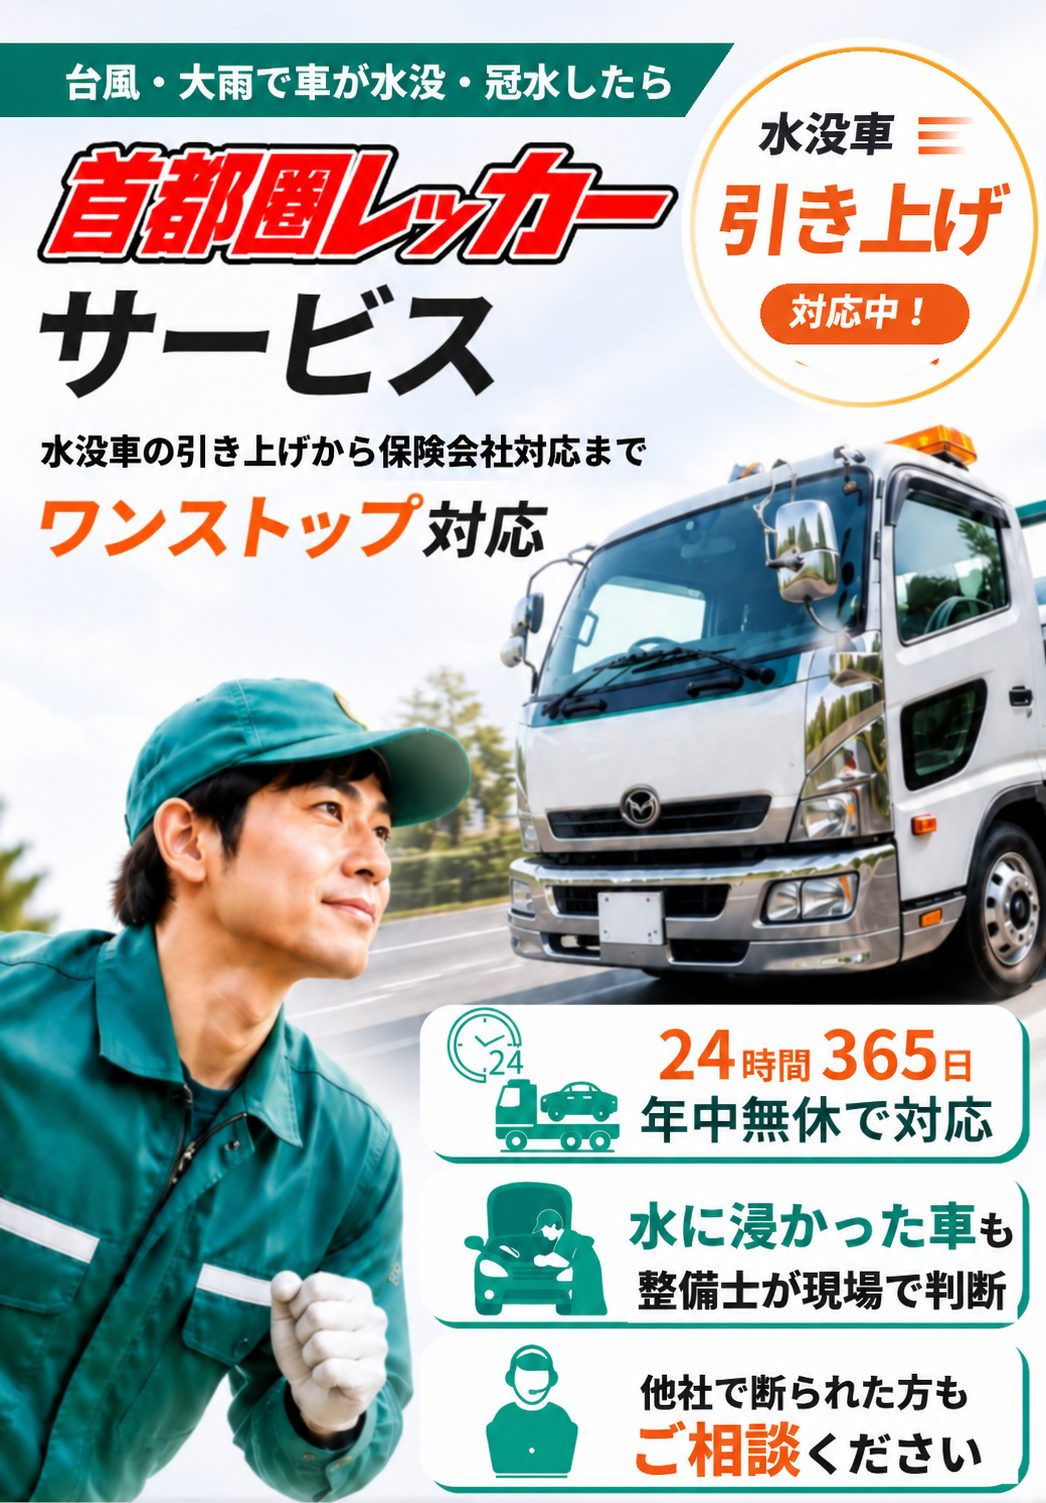
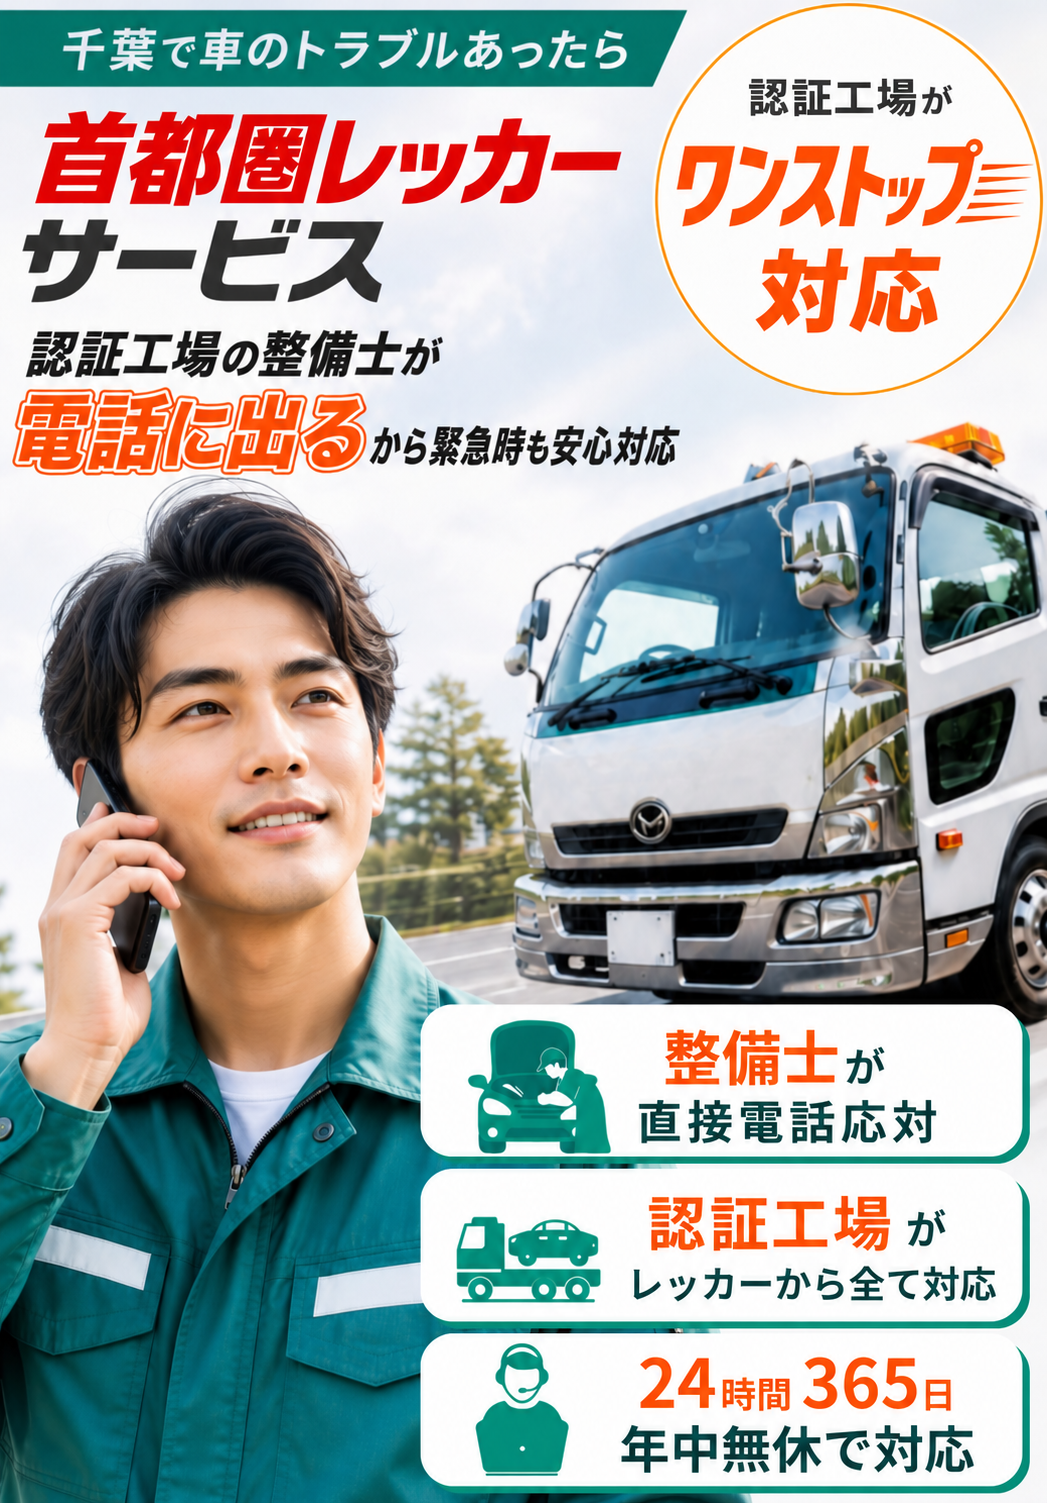
Replace hero with red Shutoken branding and certified workshop copy

diff --git a/index.html b/index.html
@@ -8,9 +8,9 @@
 <meta content="野田・つくば・小山のレッカー。野田市を拠点に茨城・栃木・埼玉・千葉北西部へ出動。搬送のあと自社工場で修理の相談まで。" name="description"/>
 <meta content="首都圏レッカー｜野田・つくば・小山 24時間対応のレッカー＆ロードサービス" property="og:title"/>
 <meta content="野田・つくば・小山のレッカー。野田市を拠点に茨城・栃木・埼玉・千葉北西部へ出動。搬送のあと自社工場で修理の相談まで。" property="og:description"/>
-<meta content="https://laplus7123-byte.github.io/shutoken-wrecker-preview/assets/img/shutoken-hero.png" property="og:image"/>
+<meta content="https://laplus7123-byte.github.io/shutoken-wrecker-preview/assets/img/shutoken-hero.png?v=20261110-fv" property="og:image"/>
 <meta content="#1f6e5b" name="theme-color"/>
-<link as="image" href="assets/img/shutoken-hero.png" rel="preload" type="image/png"/>
+<link as="image" href="assets/img/shutoken-hero.png?v=20261110-fv" rel="preload" type="image/png"/>
 <link href="https://fonts.googleapis.com" rel="preconnect"/>
 <link crossorigin="" href="https://fonts.gstatic.com" rel="preconnect"/>
 <link href="https://fonts.googleapis.com/css2?family=Noto+Sans+JP:wght@400;500;700;900&amp;family=Zen+Maru+Gothic:wght@500;700;900&amp;display=swap" rel="stylesheet"/>
@@ -20,7 +20,7 @@
 <div class="page-canvas">
 <section class="fv" id="top"><h1 class="sr-only">首都圏レッカー｜野田・つくば・小山の24時間レッカー・ロードサービス</h1>
 <img alt="首都圏レッカー。ノーぼったくり宣言。認証工場が運営、作業前に料金をご説明。相談・見積もり無料。" class="fv-img" height="768" src="assets/img/shutoken-promise.png" width="2048"/>
-<img alt="首都圏レッカーサービス。水没車の引き上げから保険会社対応までワンストップ対応。24時間365日。" class="fv-img" decoding="async" fetchpriority="high" height="1503" src="assets/img/shutoken-hero.png" width="1046"/>
+<img alt="首都圏レッカーサービス。認証工場の整備士が直接電話応対。レッカーからワンストップで、24時間365日対応。" class="fv-img" decoding="async" fetchpriority="high" height="1503" src="assets/img/shutoken-hero.png?v=20261110-fv" width="1047"/>
 </section>
 <section aria-label="お電話でのご相談" class="cta cta--mid cta--lead">
 <div class="cta-inner">
